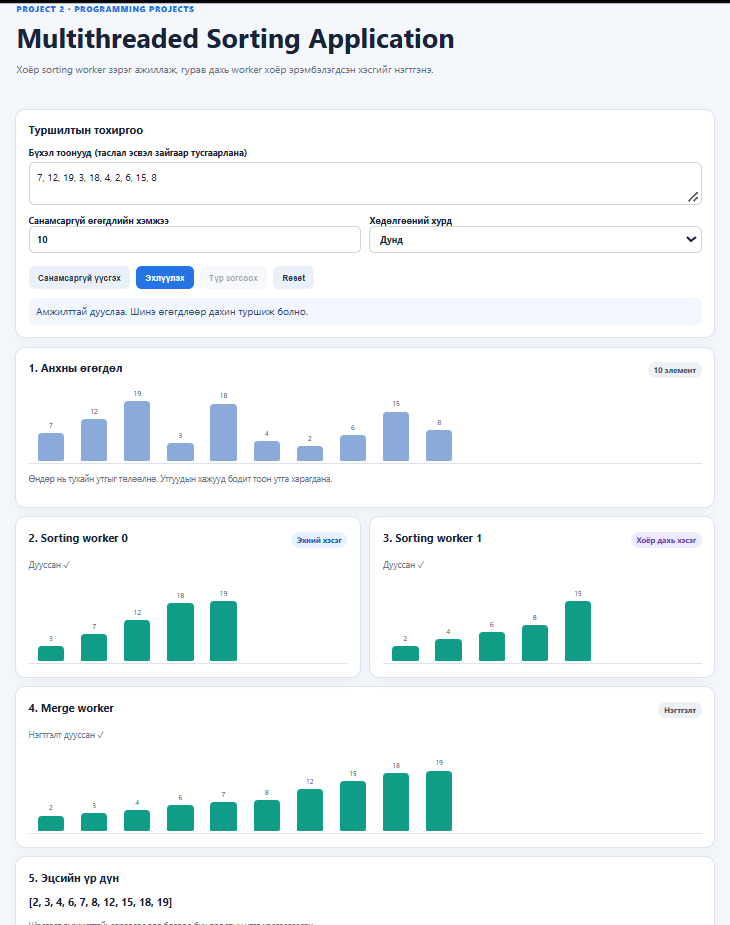
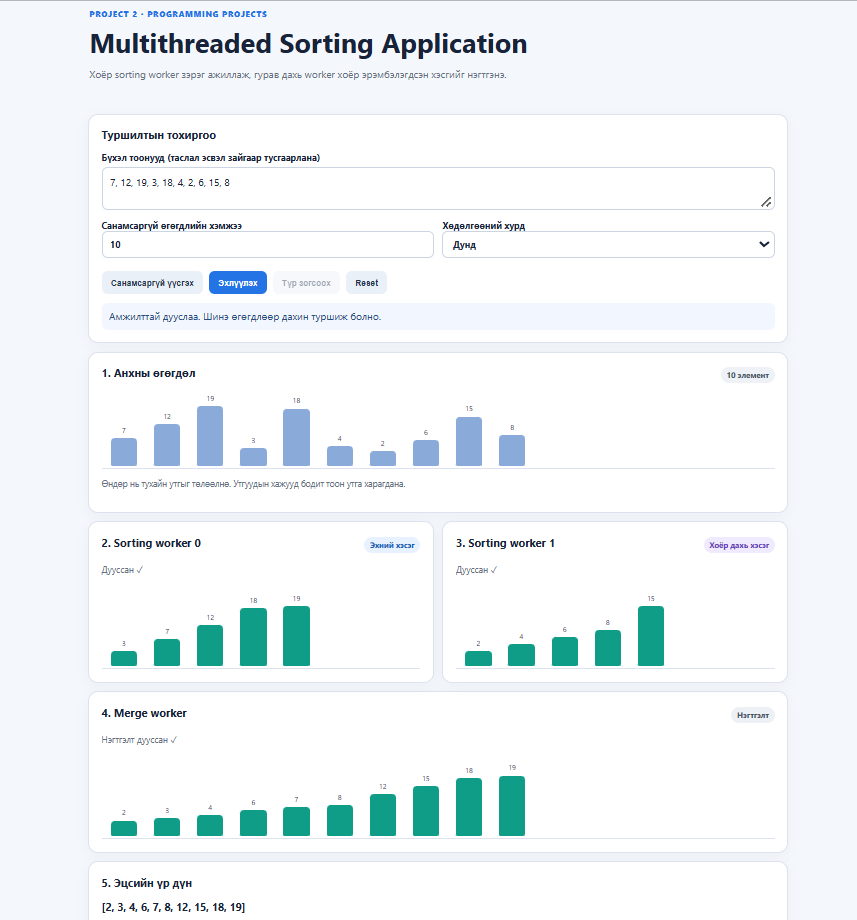
docs: add Quick Start guide and Figure 4.27 screenshot

diff --git a/README.md b/README.md
@@ -1,10 +1,12 @@
 # Multithreaded Sorting Application · V-1-6
 
-Хичээл: F.CSM302 Үйлдлийн систем 
-Багийн дугаар: V-1-6
-Сурах бичгийн харгалзах бүлэг: 4-р бүлэг - (Threads & Concurrency) 
-Төслийн нэр: Multithreaded Sorting Application 
-UI дүрслэл: Sorting animation
+---
+
+- **Хичээл:** F.CSM302 Үйлдлийн систем
+- **Багийн дугаар:** V-1-6
+- **Сурах бичгийн харгалзах бүлэг:** 4-р бүлэг - (Threads & Concurrency)
+- **Төслийн нэр:** Multithreaded Sorting Application
+- **UI дүрслэл:** Sorting animation
 
 ## Багийн гишүүд
 
@@ -22,8 +24,25 @@ UI дүрслэл: Sorting animation
 
 ## Дэлгэцийн зураг
 
-![Multithreaded Sorting Application](image.png)
+![Multithreaded Sorting Application](image-1.png)
 
+## Quick Start
 
+**Шаардлага:** **Web Worker** дэмждэг орчин үеийн веб браузер (`Chrome`, `Edge`, `Firefox`, `Safari`). Node.js, компилятор болон нэмэлт сан `npm install` шаардлагагүй (Windows, macOS, Linux дээр ижил ажиллана).
 
+```bash
+# 1. Төслийг татаж авах
+git clone https://github.com/Zaya898/OperatingSystems-F.CSM302.git
+cd OperatingSystems-F.CSM302
 
+### Ажиллуулах аргууд
+
+| Арга | Алхам |
+| :--- | :--- |
+| **Хамгийн хялбар** | `src/index.html` файлыг давхар товшиж браузер дээр шууд нээнэ. |
+| **Локал сервер (Python)** | `cd src && python -m http.server 8000` ажиллуулаад браузерт `http://localhost:8000` хаягаар орно. |
+| **Локал сервер (Node)** | `cd src && npx serve .` командыг ажиллуулна. |
+
+> **Тэмдэглэл:** Нээмэгц сурах бичгийн *Figure 4.27*-ийн жишээ (`7, 12, 19, 3, 18, 4, 2, 6, 15, 8`) автоматаар бэлэн байх ба **Эхлүүлэх** товчийг дарж туршина.
+
+![Figure 4.27](image-1.png)
